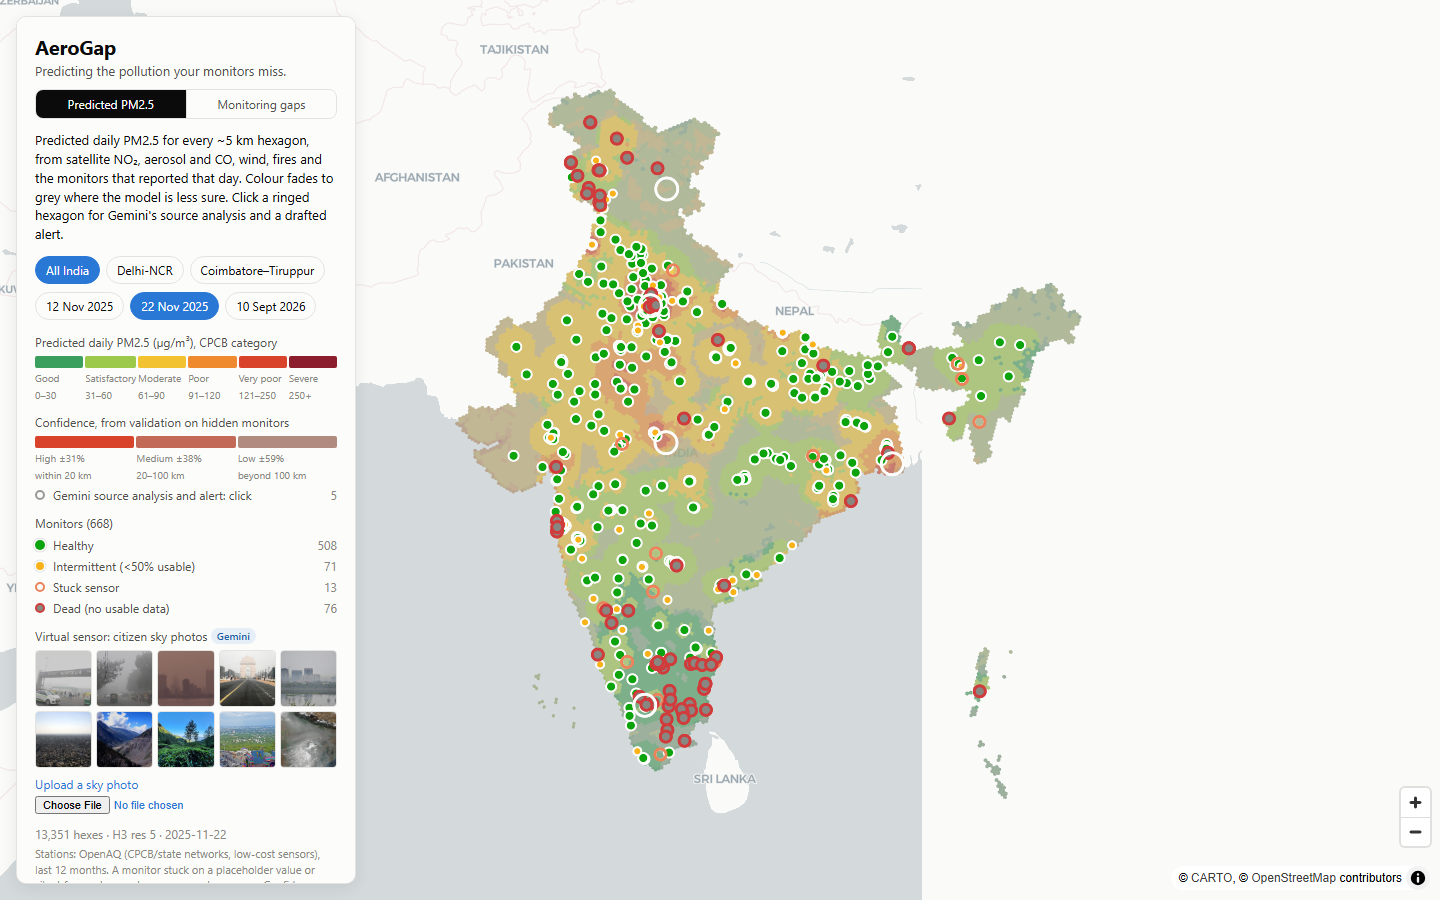
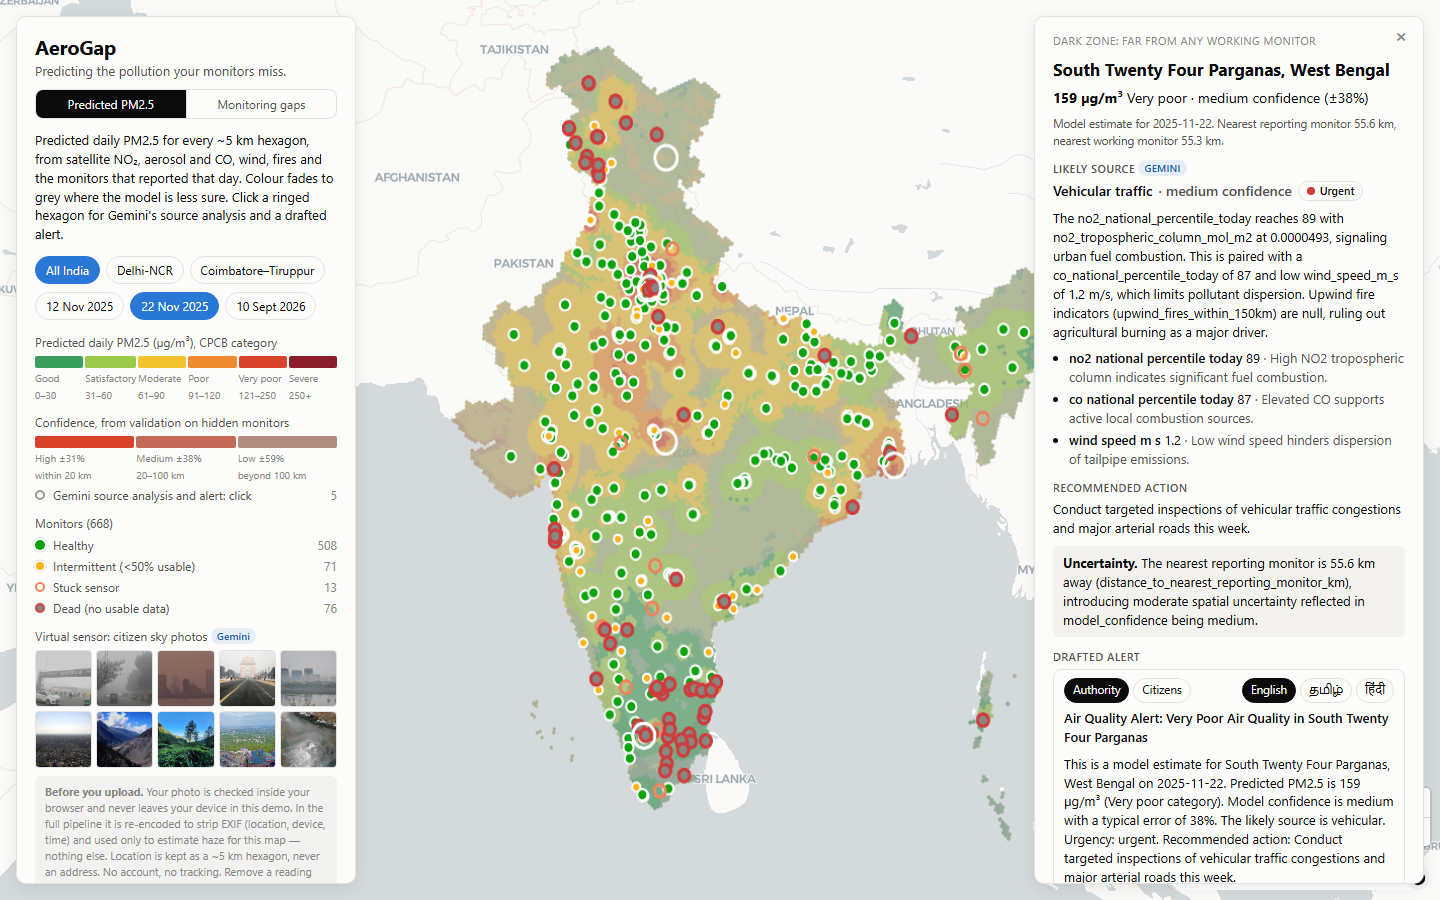
Add the submission pack: 12-slide pitch deck, brief description and video script
Deck is generated from the live deployment screenshots and the validated numbers;
every claim in it traces to docs/ or the explanations data.

Changed region(s): [[0.3125, 0.0311, 1.0, 1.0], [0.0312, 0.8711, 0.2188, 0.9956]]

diff --git a/submission/SUBMISSION.md b/submission/SUBMISSION.md
@@ -1,0 +1,139 @@
+# AeroGap — submission pack
+
+Everything needed to fill in the Hack2skill form, plus the deck content in plain text as a
+backup. Deck file: `AeroGap-pitch-deck.pptx` (12 slides, speaker notes on every slide).
+
+## Links
+
+| Item | Value |
+|---|---|
+| Live demo | https://mirdula18-aerogap.static.hf.space |
+| Public repo | https://github.com/Mirdula18/AeroGap |
+| Problem statement | 02 — Clean Air & Climate Resilience |
+| Licence | MIT (code), CC-BY 4.0 (data and docs) |
+
+## Brief description (2–3 lines)
+
+> India's 668 public air-quality monitors leave most of the country unmeasured, so
+> hyper-local pollution goes undetected. AeroGap predicts daily PM2.5 for all 623,207
+> five-kilometre hexagons of India by fusing monitors with Sentinel-5P chemistry, NASA fire
+> detections and wind, and flags "dark zones" where pollution is high and no monitor exists.
+> Gemini turns each prediction into an attributed cause and a ready-to-send alert in English,
+> Tamil and Hindi — and a citizen's sky photo becomes a virtual sensor where there is no
+> hardware at all.
+
+Shorter variant, if the field is tight:
+
+> AeroGap predicts PM2.5 for every 5 km hexagon in India — including the places with no
+> monitor — and uses Gemini to name the likely source and draft a multilingual alert for the
+> authority who can act on it.
+
+## Deck outline (what each slide argues)
+
+| # | Slide | The one thing it proves |
+|---|---|---|
+| 1 | AeroGap | It exists and it is live |
+| 2 | Where there is no monitor, there is no number | The problem is coverage, not dashboards |
+| 3 | Everyone else maps the stations | The differentiator, stated bluntly |
+| 4 | One click: estimate, cause, alert | The product, in one screenshot |
+| 5 | Five open sources, one national grid | Technical architecture, no billing account |
+| 6 | Gemini is load-bearing | Google AI does real work (25% of the rubric) |
+| 7 | How we stop the model inventing things | Grounding is enforced and checked |
+| 8 | Validated by hiding entire monitors | Honest, pre-registered results |
+| 9 | The map admits what it does not know | Do-no-harm, confidence-proportionate action |
+| 10 | National from the first commit | Depth and reach (20%) |
+| 11 | Zero budget, live, demo-proof | Deployability (20%) |
+| 12 | The alert is the product | Impact and roadmap |
+
+## The numbers (all verified — use these exactly)
+
+**Coverage**
+- 668 public monitors nationwide; 508 healthy, 71 intermittent, 13 stuck on a placeholder,
+  **76 dead**
+- 623,207 hexagons, H3 resolution 7, ~5 km across, covering all 36 states and union
+  territories
+- Training corpus: 146.2M readings, 13 Sept 2025 – 10 Sept 2026
+
+**Model** — leave-station-out cross-validation, 2,000-draw station bootstrap
+
+| Distance to nearest monitor | MAE µg/m³ | Improvement over IDW | Verdict |
+|---|---|---|---|
+| 0–20 km | 16.8 [15.8, 17.8] | −3.8% [−5.8, −1.7] | interpolation wins |
+| 20–50 km | 18.6 [16.4, 21.0] | +12.1% [+6.8, +17.0] | real gain |
+| 50–100 km | 15.0 [13.4, 17.0] | +7.3% [+1.5, +12.6] | real gain |
+| 100 km+ | 21.4 [16.5, 28.3] | +6.9% [−7.7, +21.4] | not demonstrable |
+
+- Confidence shown to users: ±31% within 20 km, ±38% at 20–100 km, ±59% beyond 100 km
+- The decision rule was committed to git **before** the evaluation ran. The pre-registered
+  model failed its own test at 100 km+, so the simpler variant was promoted and the failure
+  published in `docs/model-decision.md`.
+
+**Gemini**
+- `gemini-3.6-flash`, AI Studio free tier, one key, three jobs: virtual sensor, source
+  attribution, multilingual alert
+- Every call cached to disk by a hash of model + prompt version + request body
+- Offline replay verified: **0 live calls, 16 cache hits** — the demo cannot fail on stage
+- Free-tier limits learned the hard way: 5 requests/minute, 20/day per model. Attribution and
+  alerts are therefore batched to one call per date.
+
+## The claim to make, and the claims to avoid
+
+**Say:** within 100 km of a working monitor we beat interpolation by 7–12% with intervals
+that hold; beyond 100 km we cannot demonstrate an improvement, and the map says so.
+
+**Never say:** "95% accurate", "beats existing systems everywhere", or any figure without its
+interval. The honesty is the differentiator — don't trade it for a rounder number.
+
+## Demo video script (3–5 minutes)
+
+1. **0:00–0:30 — The gap.** Open the live map on "Monitoring gaps", All India. Point at the
+   dark blue: 100–200 km from any working monitor. "76 of India's 668 monitors published
+   nothing usable this year. This is what nobody is measuring."
+2. **0:30–1:15 — The prediction.** Switch to "Predicted PM2.5", 12 Nov 2025. Zoom to Delhi.
+   Explain the colour, and that grey means low confidence. "Every hexagon has a number and an
+   honest error bar."
+3. **1:15–2:15 — Gemini attribution.** Click the ringed Delhi hexagon. Read the source, the
+   cited evidence and the uncertainty line. Then click the Leh hexagon: low confidence, and
+   the action changes to "send a portable monitor". "The model is allowed to say it doesn't
+   know."
+4. **2:15–3:00 — The alert.** Same panel, scroll to the drafted alert. Switch Authority →
+   Citizens, English → தமிழ் → हिंदी. "This is the last step before somebody acts."
+5. **3:00–3:40 — Virtual sensor.** Click a citizen photo. Show haze 85/100 and the fused
+   estimate shifting 173 → 214 µg/m³ at 27% weight. Mention EXIF stripping and the consent
+   notice.
+6. **3:40–4:20 — Scale and deployment.** Switch Delhi-NCR → Coimbatore–Tiruppur. "Same grid,
+   same weights, one config entry. National from the first commit." Note ₹0 infrastructure,
+   free tier throughout, and that every Gemini response is cached, so this demo never calls an
+   API.
+7. **4:20–4:40 — Close.** Back to the national view. "AeroGap predicts the pollution your
+   monitors miss — and tells someone who can do something about it."
+
+Deep links for recording (append to the live URL):
+- `?city=all-india&view=gap&date=2025-11-12`
+- `?city=delhi-ncr&date=2025-11-12&explain=873da1140ffffff`
+- `?city=all-india&date=2025-11-22&explain=873d06b2bffffff` (Leh, low confidence)
+- `?city=delhi-ncr&date=2025-11-22&photo=delhi-road-smog`
+- `?city=coimbatore-tiruppur&date=2026-09-10`
+
+## Rubric mapping (for the written submission fields)
+
+| Criterion | Weight | Evidence to cite |
+|---|---|---|
+| AI / technical execution | 25% | Three load-bearing Gemini features, schema-constrained and citation-checked; LightGBM with leave-station-out validation; runs end-to-end, live |
+| Problem–solution fit | 20% | The brief says cities "consistently miss" hyper-local events; we predict where no station exists |
+| Depth & reach across India | 20% | National grid from day one, 623,207 hexagons, 36 states, two cities live from one config |
+| Deployability & scalability | 20% | Zero-budget free-tier stack, live URL, degrades gracefully to satellite-only where there are no monitors |
+| Impact potential | 15% | Role-addressed multilingual alerts, confidence-proportionate actions, DPG-compliant and openly licensed |
+
+## Images used in the deck
+
+In `docs/screenshots/`, all captured from the live deployment:
+
+| File | Shows |
+|---|---|
+| `national-gaps.png`, `deck-national-map.png` | National monitoring-gap map |
+| `attribution-panel.png` | Delhi: prediction, Gemini attribution, drafted alert |
+| `low-confidence.png`, `deck-lowconf-panel.png` | Leh: low confidence, verification-first action |
+| `photo-sensor.png`, `deck-photo-panel.png` | Citizen photo fused into the grid |
+| `dark-zone-alert.png` | Dark zone, 56 km from the nearest monitor |
+| `coimbatore.png` | The second city, same model |
